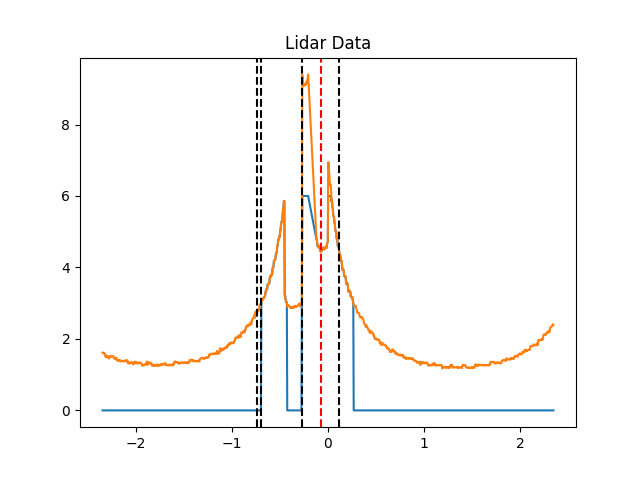
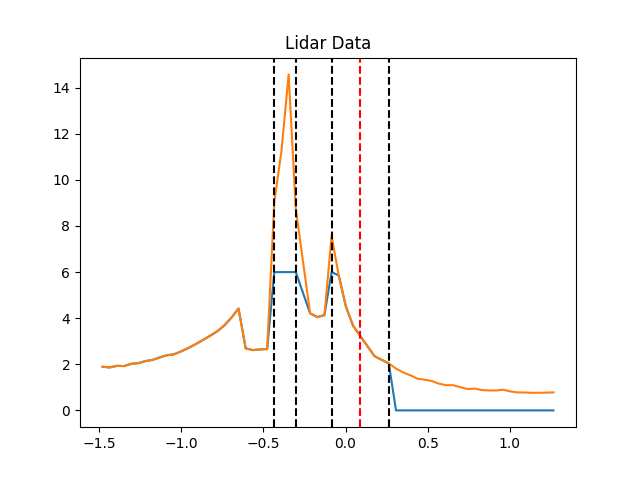
ftg_planner class

diff --git a/examples/ftg_planner.py b/examples/ftg_planner.py
@@ -1,0 +1,265 @@
+from pyglet.gl import GL_POINTS
+import pyglet
+import numpy as np
+import math
+from globals import *
+import matplotlib.pyplot as plt
+
+
+class FollowTheGapPlanner:
+    """
+    Example Planner
+    """
+   
+    vertex_list = pyglet.graphics.vertex_list(2,
+        ('v2i', (10, 15, 30, 35)),
+        ('c3B', (0, 0, 255, 0, 255, 0))
+    )
+
+    def __init__(self, speed_fraction = 1):
+    
+        print("Controller initialized")
+        # self.currentPosition = np.array([0.0, 0.0])
+        # self.nextPosition = np.array([0.0, 0.0])
+        # self.nextPositions = [[0.0, 0.0]]
+
+        # self.drawn_waypoints = []
+        self.lidar_border_points = 1080 * [[0,0]]
+        self.lidar_scan_angles = np.linspace(-2.35,2.35, 1080)
+        self.simulation_index = 0
+        self.speed_fraction = speed_fraction
+        self.plot_lidar_data = False
+
+
+
+    def render_ftg(self, e):
+        return
+
+        # Render lidar data
+        for i in range(len(self.lidar_border_points)):
+            e.batch.add(1, GL_POINTS, None, ('v3f/stream', [self.lidar_border_points[i][0], self.lidar_border_points[i][1], 0.]),
+                        ('c3B', (255, 0, 255)))
+
+        return
+        points = np.array(self.currentPosition)
+        scaled_points = 50.*points
+
+        # print("Scaled Points", scaled_points)
+
+        # e.batch.add(1, GL_POINTS, None, ('v3f/stream', [scaled_points[0], scaled_points[1], 0.]),
+        #             ('c3B', (255, 0, 0)))
+
+      
+
+        points = np.array(self.nextPosition)
+        scaled_points = 50.*points
+        # self.vertex_list.delete()
+
+        self.vertex_list.delete()
+        self.vertex_list =  e.batch.add(1, GL_POINTS, None, ('v3f/stream', [scaled_points[0], scaled_points[1], 0.]), ('c3B', (0, 255, 0)))
+        
+
+
+        points = np.array(self.car_controller.simulated_history)
+        chosen_trajectory = points[0][:][:]
+        chosen_trajectory_positions = chosen_trajectory[:][:]
+        c = 0
+
+        
+
+        if(points.shape[0] != 1):
+
+            points = points.reshape((points.shape[0] * points.shape[1],7))
+            trajectory = points[:,:2]
+
+            scaled_points = 50.*trajectory
+
+            howmany = scaled_points.shape[0]
+            scaled_points_flat = scaled_points.flatten()
+
+            c = c + 140
+            self.vertex_list = e.batch.add(howmany, GL_POINTS, None, ('v2f/stream', scaled_points_flat),
+                        ('c3B', (0, c, 255 -c) * howmany ))
+
+
+        self.car_controller.simulated_history  = [[0,0,0,0,0,0,0]]
+
+
+        # for i in range(points.shape[0]):
+        #      self.vertex_list = e.batch.add(1, GL_POINTS, None, ('v3f/stream', [scaled_points[i, 0], scaled_points[i, 1], 0.]),
+        #                 ('c3B', (0, 255,0)))
+
+
+
+
+    def process_observation(self, ranges=None, ego_odom=None):
+        """
+        gives actuation given observation
+        @ranges: an array of 1080 distances (ranges) detected by the LiDAR scanner. As the LiDAR scanner takes readings for the full 360°, the angle between each range is 2π/1080 (in radians).
+        @ ego_odom: A dict with following indices:
+        {
+            'pose_x': float,
+            'pose_y': float,
+            'pose_theta': float,
+            'linear_vel_x': float,
+            'linear_vel_y': float,
+            'angular_vel_z': float,
+        }
+        """
+
+        # print("ego_odom",ego_odom)
+
+        pose_x = ego_odom['pose_x']
+        pose_y = ego_odom['pose_y']
+        pose_theta = ego_odom['pose_theta']
+
+        points = []
+        angles = []
+        distances = []
+
+        # Use all sensor data
+        # for i in range(1080):
+        #     p1 = car_state[0] + scans[i] * math.cos(car.scan_angles[i] + car_state[4])
+        #     p2 = car_state[1] + scans[i] * math.sin(car.scan_angles[i] + car_state[4])
+        #     planner.lidar_border_points.append([50* p1, 50* p2])
+
+        # Use only a part
+
+        scans = [x - 0.3 for x in ranges]
+
+        max_dist = 0
+        for i in range(20, 84):
+            max_distance = 15
+            index = 10*i
+            # if(scans[index] > max_distance): continue
+            p1 = pose_x + scans[index] * math.cos(self.lidar_scan_angles[index] + pose_theta)
+            p2 = pose_y + scans[index] * math.sin(self.lidar_scan_angles[index] + pose_theta)
+            points.append((p1,p2))
+            angles.append(self.lidar_scan_angles[index])
+            distances.append(scans[index])
+            self.lidar_border_points.append([50* p1, 50* p2])
+            if( scans[index] > max_dist):
+                max_dist = scans[index]
+
+        angles_unfiltered = angles.copy()
+        distances_unfiltered = distances.copy()
+        
+
+        closest_distance = 10000
+        closest_distance_index = 0
+
+        # Filter distances
+
+        # ignore close points:
+        for i in range(len(distances)):
+
+            if(distances[i] < 1.5):
+                distances[i] = 0
+
+            if (distances[i] > 6):
+                distances[i] = 6
+
+            # Set points near closest distance to 0
+            if(distances[i] < closest_distance):
+                closest_distance =distances[i]
+                closest_distance_index = i
+
+
+        # IGNORE neighbors of closest point
+        for i in range(closest_distance_index - 3, closest_distance_index + 3):
+            if( i < len(distances)):
+                distances[i] = 0
+
+        # Find gaps
+        gaps = []
+        gap_open = False
+        gap_opening_angle = 0
+        gap_starting_index = 0
+        gap_treshold = 1.499
+        max_distance = 0
+        gap_found = False
+  
+
+        for i in range(len(distances) - 1):
+            # Rising
+            if(not gap_open):
+                if(distances[i] < distances[i+1] - gap_treshold):
+                    gap_opening_angle = angles[i+1]  # + math.sin(0.05) * distances[i]
+                    gap_starting_index = i+1
+                    gap_open = True
+             
+
+            # Falling
+            if(gap_open):
+                if(max_distance < distances[i]):
+                     max_distance = distances[i]
+
+                if(distances[i] > distances[i+1] + gap_treshold ):
+                    gap_closing_angle = angles[i] #- math.sin(0.05) * distances[i]
+                    gap_closing_index = i
+                    gap = [gap_opening_angle,  gap_closing_angle, gap_starting_index, gap_closing_index]
+                    gaps.append(gap)
+                    gap_open = False
+                    gap_found = True
+          
+
+
+        # Find largest Gap
+        largest_gap_angle = 0
+        largest_gap_index = 0
+        largest_gap_center = 0
+        for i in range(len(gaps)):
+            gap = gaps[i]
+            gap_angle = abs(gap[1] - gap[0])
+            if(gap_angle) > largest_gap_angle:
+                largest_gap_angle = gap_angle
+                largest_gap_index = i
+                largest_gap_center = (gap[0] + gap[1]) / 2
+
+
+
+        # Speed Calculation
+
+        speed = self.speed_fraction * max_distance - 3 * abs(largest_gap_center)
+        if(speed < 0.1): speed = 0.1
+        # speed = (last_speed + speed )/2
+        # last_speed = speed
+
+        if max_distance > 15:
+            speed = 20
+        if max_distance < 2:
+             speed = 2
+  
+
+        if(not gap_found):
+            speed = 0.0
+            print("Emergency Brake")
+
+        print("Speed", speed)
+        # Plotting
+        
+        # print("lidar points", distances)
+        if(self.plot_lidar_data):
+            if(self.simulation_index % 10 == 0):
+                plt.clf()
+                plt.title("Lidar Data")
+                plt.plot(angles, distances)
+                plt.plot(angles_unfiltered, distances_unfiltered)
+
+                for gap in gaps:
+                    plt.axvline(x=gap[0], color='k', linestyle='--')
+                    plt.axvline(x=gap[1], color='k', linestyle='--')
+
+                plt.axvline(x=largest_gap_center, color='red', linestyle='--')
+
+                plt.savefig("lidar.png")
+
+
+        steering_angle = largest_gap_center
+        
+        self.simulation_index += 1
+        return speed, steering_angle
+
+
+        
+
